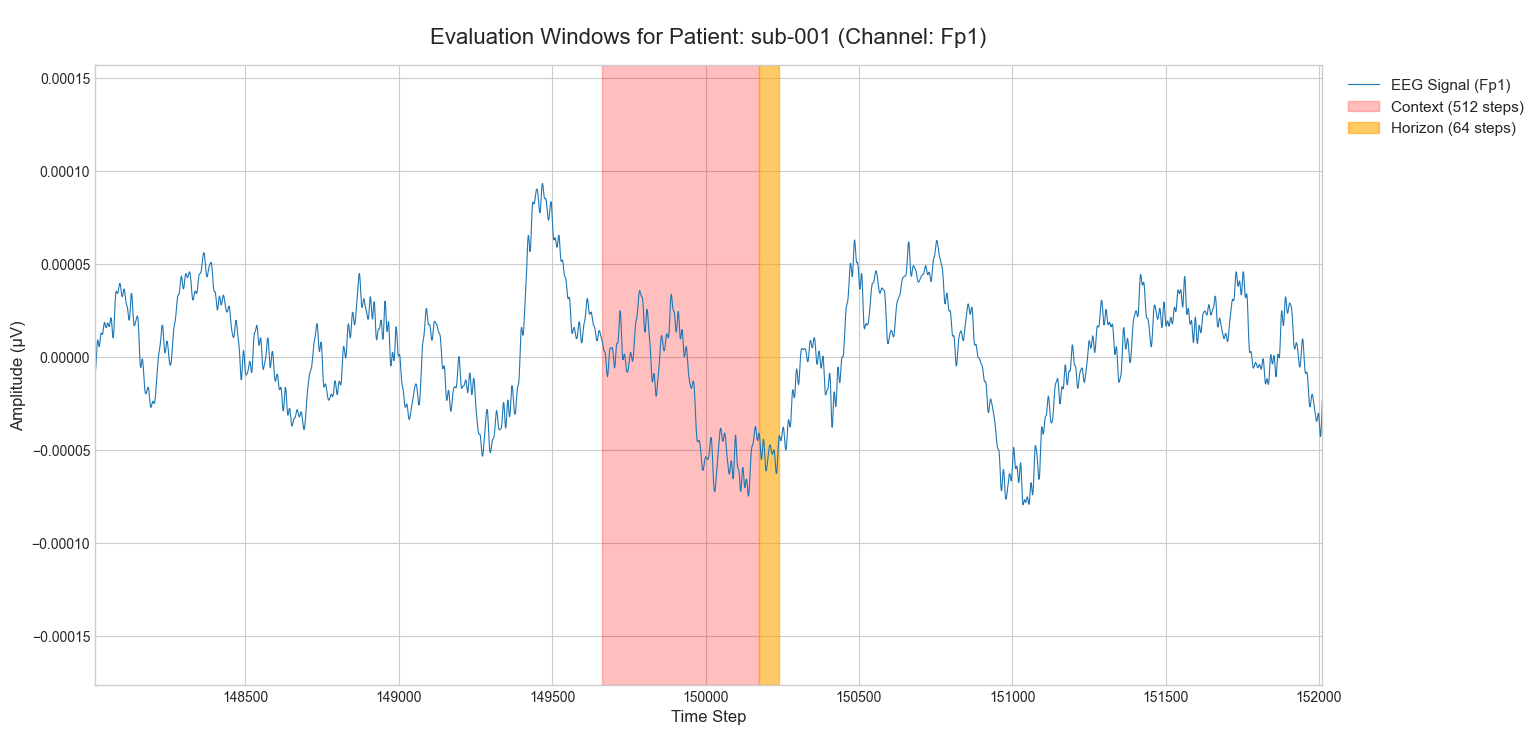
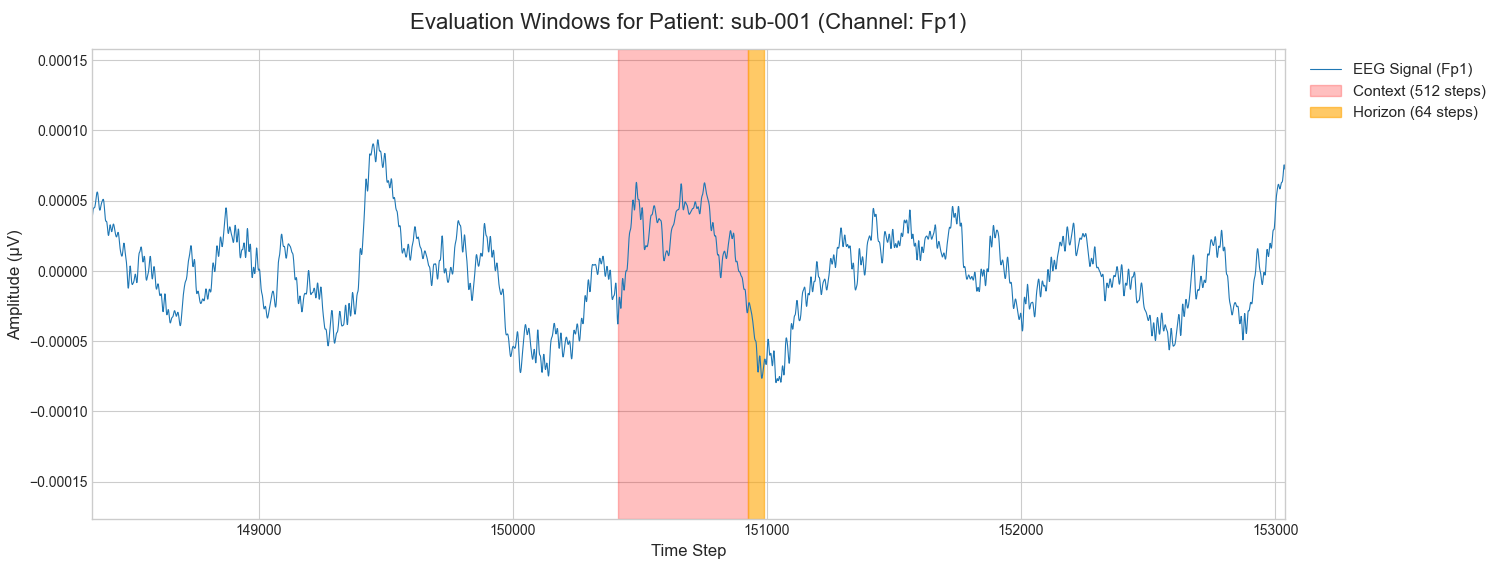
Raport fixes, add .gitignore

diff --git a/Michal/Summary_report.md b/Michal/Summary_report.md
@@ -142,7 +142,7 @@ The following plot illustrates how the consistency of the causal signal changes 
 | Fp1 -> P3 |               10 |       8.81 |     94.55 |
 | Fp2 -> P4 |               10 |       9.01 |     94.32 |
 
-### Table 4. Chronos
+### Table 5. Chronos
 | Pair      |   Optimal_Lag_ms |   Median_F |   Sig_Pct |
 |:----------|-----------------:|-----------:|----------:|
 | Fp2 -> P4 |               10 |      39.18 |    100    |
@@ -150,7 +150,7 @@ The following plot illustrates how the consistency of the causal signal changes 
 | P4 -> Fp2 |               10 |      33.58 |    100    |
 | Fp1 -> P3 |               40 |      14    |     98.86 |
 
-### Table 5. Chronos2
+### Table 6. Chronos2
 | Pair      |   Optimal_Lag_ms |   Median_F |   Sig_Pct |
 |:----------|-----------------:|-----------:|----------:|
 | Fp1 -> P3 |               10 |      27.43 |    100    |
@@ -158,7 +158,7 @@ The following plot illustrates how the consistency of the causal signal changes 
 | P4 -> Fp2 |               10 |      25.59 |    100    |
 | Fp2 -> P4 |               10 |      31.17 |     98.86 |
 
-### Table 6. TimesFM
+### Table 7. TimesFM
 | Pair      |   Optimal_Lag_ms |   Median_F |   Sig_Pct |
 |:----------|-----------------:|-----------:|----------:|
 | P4 -> Fp2 |               20 |      15.3  |    100    |
@@ -168,7 +168,7 @@ The following plot illustrates how the consistency of the causal signal changes 
 
 ## Consistency of causality significance for different patient goups using optimal lag values from Table 4
 
-### Table 7. Granger
+### Table 8. Granger
 | Pair      |      A |      C |     F |
 |:----------|-------:|-------:|------:|
 | Fp1 -> P3 |  96.67 |  94.48 | 91.3  |
@@ -176,7 +176,7 @@ The following plot illustrates how the consistency of the causal signal changes 
 | P3 -> Fp1 | 100    |  98.62 | 98.26 |
 | P4 -> Fp2 |  99.44 | 100    | 98.26 |
 
-### Table 8. Chronos
+### Table 9. Chronos
 | Pair      |      A |   C |   F |
 |:----------|-------:|----:|----:|
 | Fp1 -> P3 |  97.22 | 100 | 100 |
@@ -184,7 +184,7 @@ The following plot illustrates how the consistency of the causal signal changes 
 | P3 -> Fp1 | 100    | 100 | 100 |
 | P4 -> Fp2 | 100    | 100 | 100 |
 
-### Table 9. Chronos2
+### Table 10. Chronos2
 | Pair      |      A |   C |   F |
 |:----------|-------:|----:|----:|
 | Fp1 -> P3 | 100    | 100 | 100 |
@@ -192,7 +192,7 @@ The following plot illustrates how the consistency of the causal signal changes 
 | P3 -> Fp1 | 100    | 100 | 100 |
 | P4 -> Fp2 | 100    | 100 | 100 |
 
-### Table 10. TimesFM
+### Table 11. TimesFM
 | Pair      |      A |      C |   F |
 |:----------|-------:|-------:|----:|
 | Fp1 -> P3 |  97.22 | 100    | 100 |